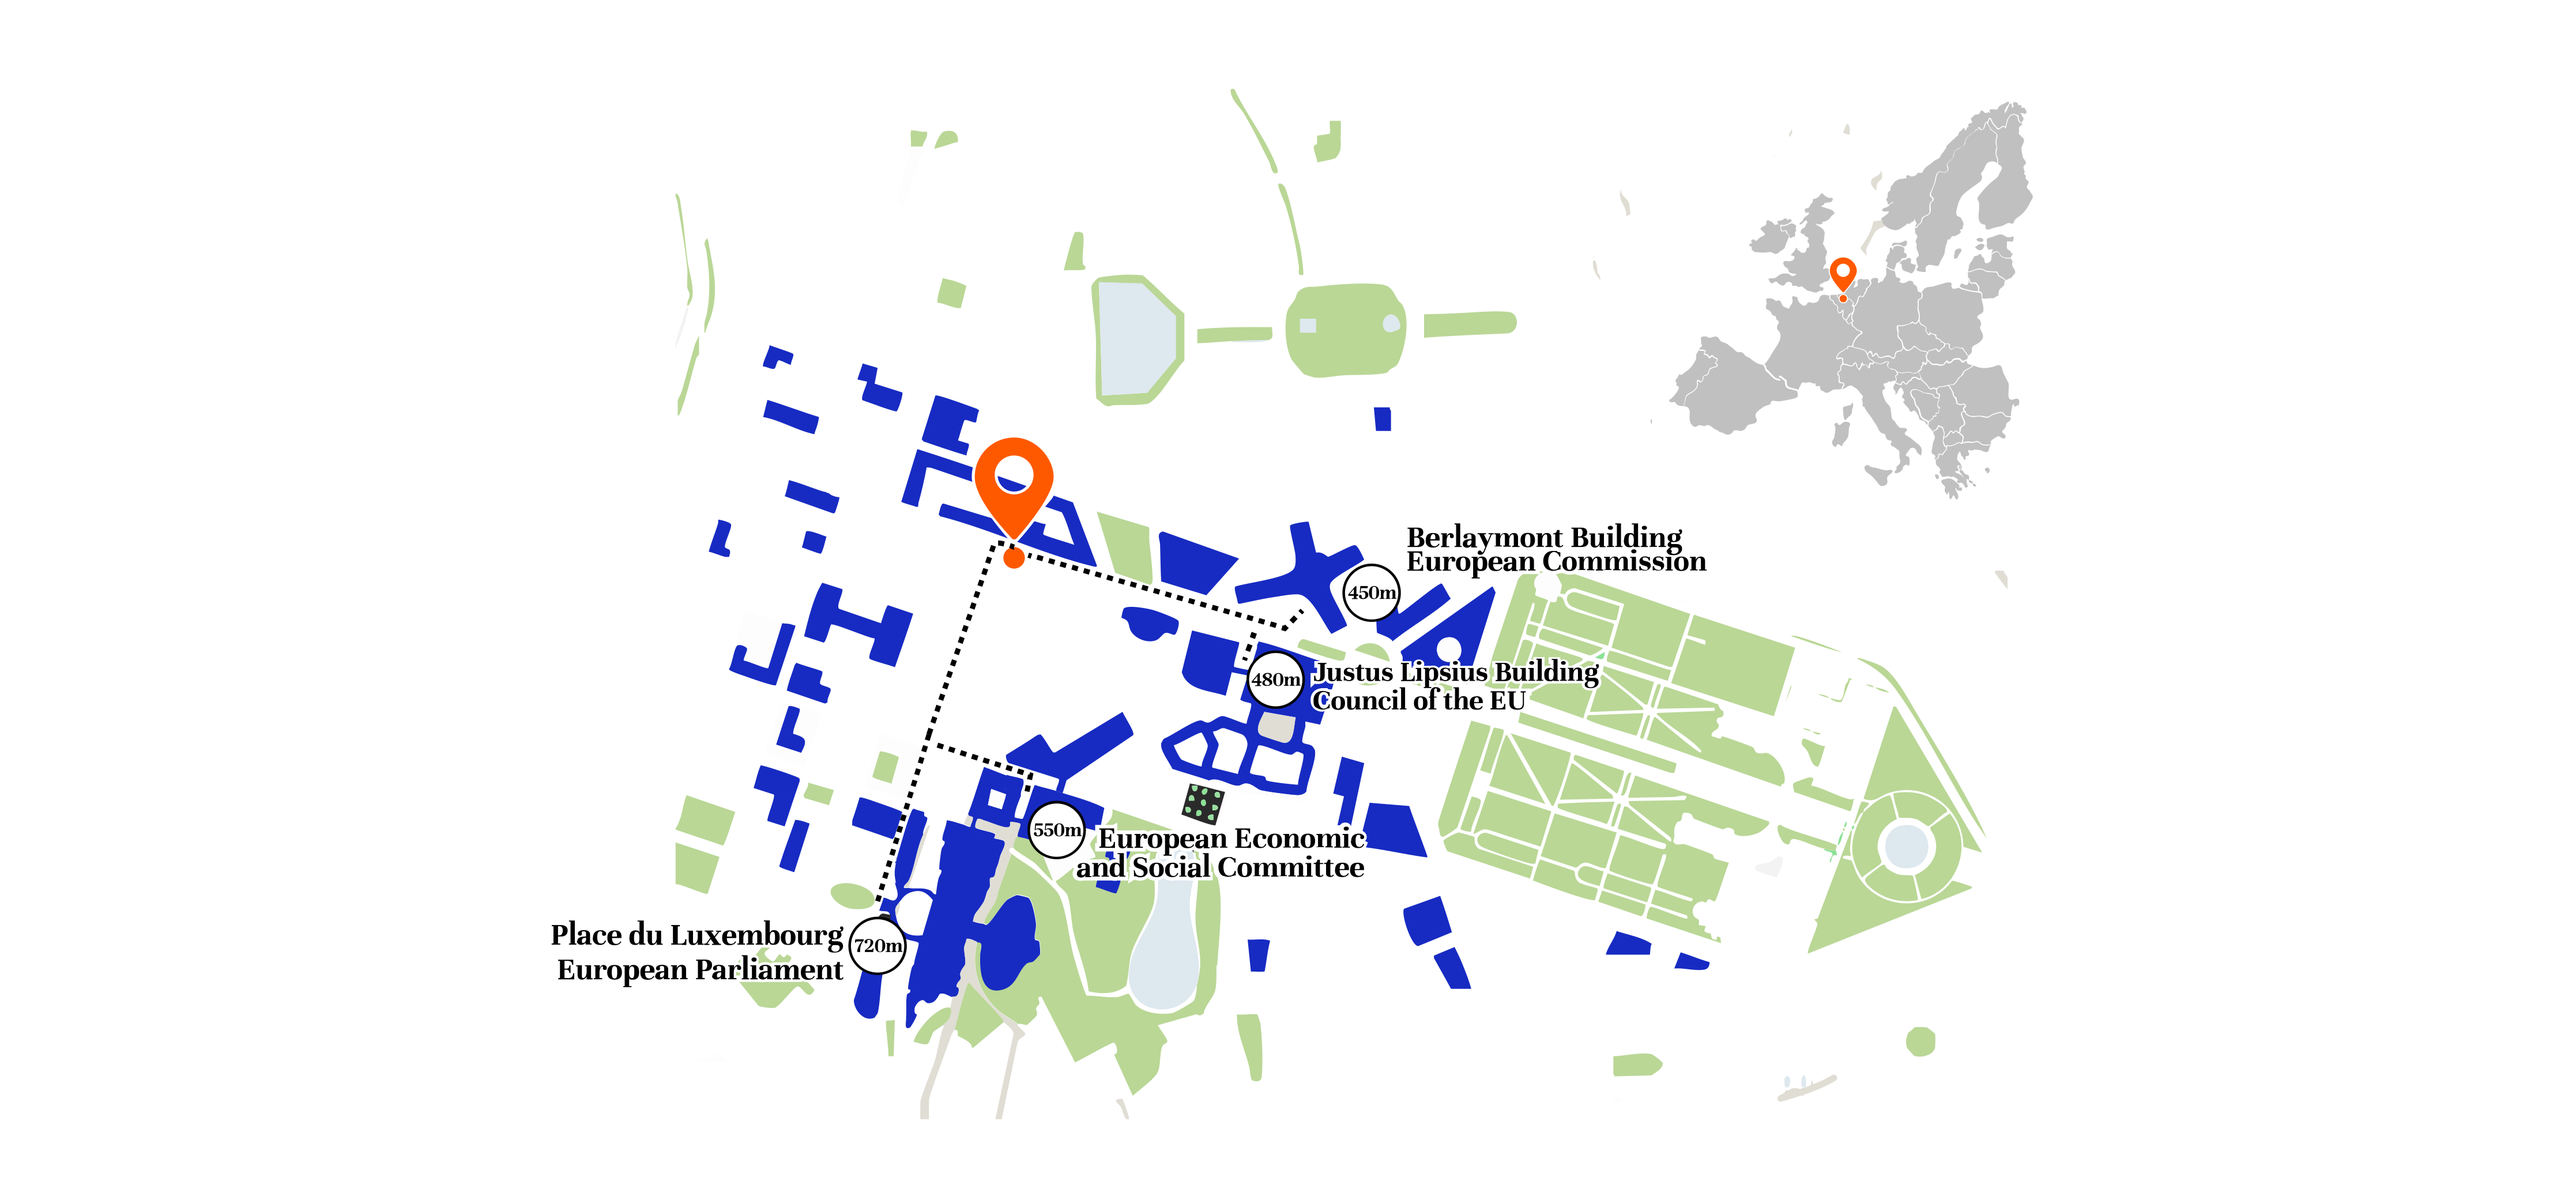
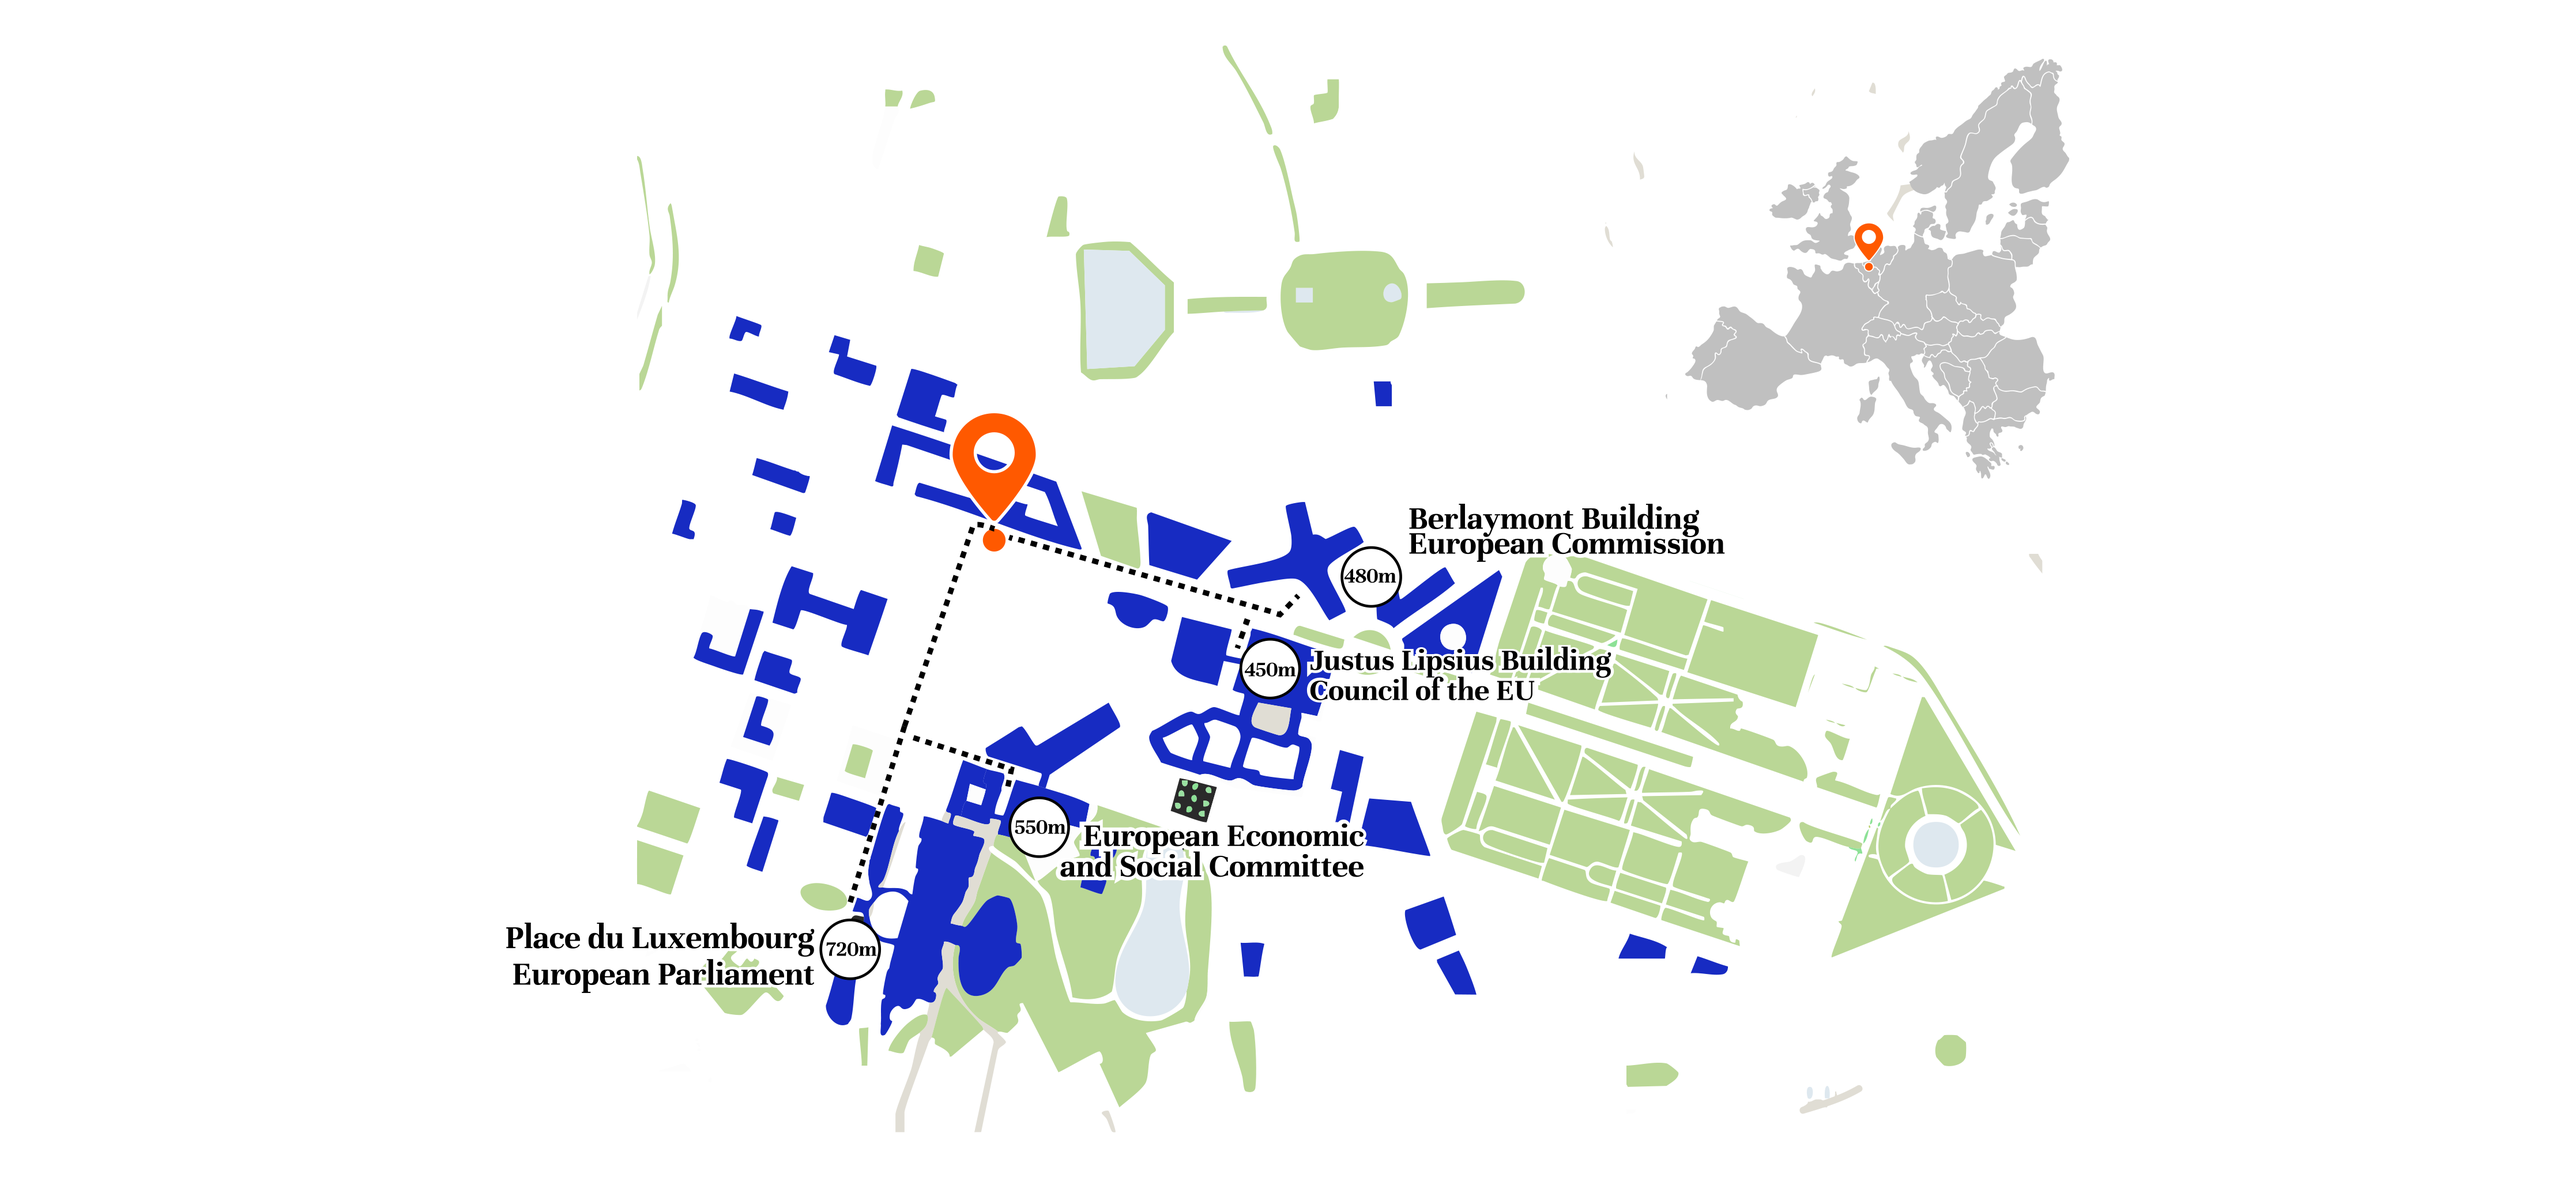
feat: update image formats for facilities and hero components

diff --git a/src/lib/data.ts b/src/lib/data.ts
@@ -83,8 +83,8 @@ export const FACILITIES: FacilitiesCardType[] = [
 		text: 'This room is designed for either enjoying a buffet or cocktail-style service with standing tables, or if the other meeting rooms are not enough, we can turn it into another board-room style meeting room for max. 8 persons.',
 		images: [
 			'/facilities/facilities-3a.jpeg',
-			'/facilities/facilities-3b.jpeg',
-			'/facilities/facilities-3c.jpeg',
+			'/facilities/facilities-3b.png',
+			'/facilities/facilities-3c.png',
 		],
 		firstLink: '/',
 		secondLink: '/',

diff --git a/src/components/home/home-section.tsx b/src/components/home/home-section.tsx
@@ -36,13 +36,13 @@ const HomeSection = () => {
 				<HomeCard
 					title="FACILITIES"
 					Icon={PhoneSvg}
-					image="/hero/hero-facilities.jpeg"
+					image="/hero/hero-facilities.png"
 					link="/facilities"
 				/>
 				<HomeCard
 					title="SERVICES"
 					Icon={CogsSvg}
-					image="/catering.jpg"
+					image="/hero/hero-services.jpg"
 					link="/services"
 				/>
 			</div>

diff --git a/src/components/facilities/hero-facilities.tsx b/src/components/facilities/hero-facilities.tsx
@@ -5,7 +5,7 @@ const HeroFacilities = () => {
 		<div className="w-full h-screen flex items-center justify-center relative">
 			<div className="absolute inset-0 z-20 bg-black-spaces/50"></div>
 			<Image
-				src="/hero/hero-facilities.jpeg"
+				src="/hero/hero-facilities.png"
 				alt="Facilities hero"
 				fill
 				className="object-cover"

diff --git a/src/components/services/hero-services.tsx b/src/components/services/hero-services.tsx
@@ -5,7 +5,7 @@ const HeroServices = () => {
 		<div className="w-full h-screen flex items-center justify-center relative">
 			<div className="absolute inset-0 z-20 bg-black-spaces/50"></div>
 			<Image
-				src="/catering.jpg"
+				src="/hero/hero-services.jpg"
 				alt="Concepts"
 				fill
 				className="object-cover"

diff --git a/src/components/home/hero-home.tsx b/src/components/home/hero-home.tsx
@@ -7,7 +7,7 @@ const HeroHome = () => {
 		'/hero/hero-1.jpeg',
 		'/hero/hero-2.png',
 		'/hero/hero-3.jpg',
-		'/hero/hero-4.jpeg',
+		'/hero/hero-4.png',
 		'/hero/hero-5.png',
 	]
 	const texts = [
